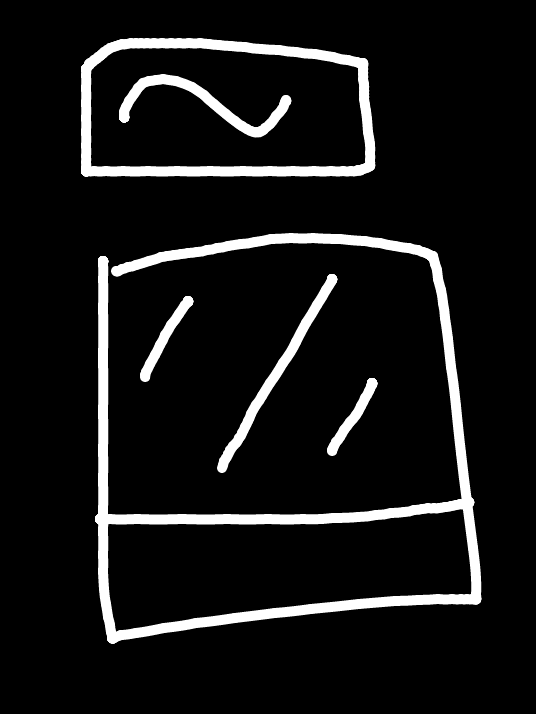
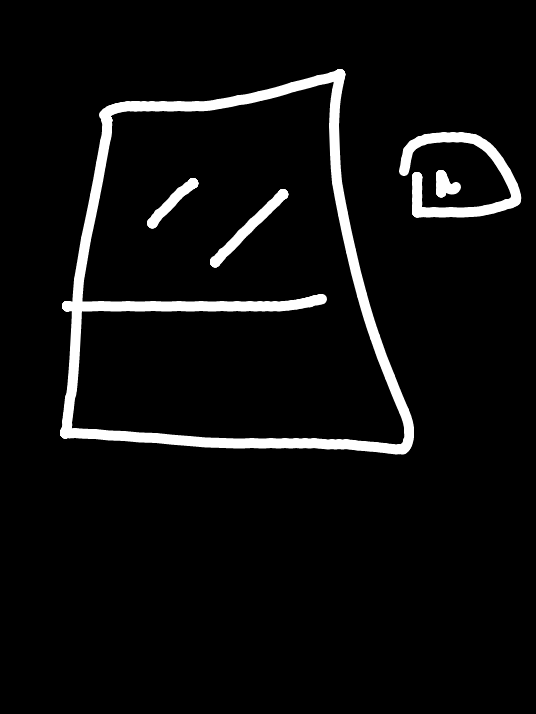
Model

Changed region(s): [[0.0896, 0.0308, 0.8955, 0.9244], [0.7463, 0.1849, 0.9851, 0.3081]]

diff --git a/output.html b/output.html
@@ -12,9 +12,9 @@
   <link href="main.css" rel="stylesheet"/>
  </head>
  <body>
-  <div class="main-heading" style="margin-top:6.022408963585434vh;">
-   Sub Heading
+  <div class="sub-heading" style="margin-top:20vh;">
+   Sub Sub Heading . Used for explaining the topic in detail
   </div>
-  <img class="img-box" id=" cdcdcdcd" src="assets/img/image.jpg" style="margin-top:9.383753501400555vh;height:56.022408963585434vh"/>
+  <img class="img-box" id=" hhhh" src="assets/img/image.jpg" style="margin-top:-19vh;height:50vh"/>
  </body>
 </html>

diff --git a/layout_gen.py b/layout_gen.py
@@ -3,10 +3,28 @@ import util
 from xml.etree import ElementTree as ET
 from xml.dom import minidom
 from bs4 import BeautifulSoup as bs
+import math
+
+
 elements = []
 h = 0
 w = 0
 main_html = '<!DOCTYPE html><html lang="en"><head><title>Output</title><meta charset="utf-8"><meta name="viewport" content="width=device-width, initial-scale=1"><link rel="shortcut icon" href="assets/img/favicons/favicon.ico"><script src="assets/js/reload.js"></script><link rel="stylesheet" href="main.css" /></head><body>'
+
+
+def getClean(margin_top):
+    margin_top = math.floor(margin_top)
+    ones = margin_top%10
+
+    if(margin_top >= 10):
+
+        if(ones > 5):
+            margin_top = (margin_top - margin_top%10) +10
+        else:
+            margin_top = (margin_top- margin_top%10)
+    
+    return margin_top
+
 def init(element_type,coords,W,H,id_):
   
     x_min = coords[0]
@@ -19,6 +37,11 @@ def init(element_type,coords,W,H,id_):
 
     h_percent = float((y_max - y_min)/H)*100
     w_percent = float((x_max - x_min)/W)*100
+
+    h_percent = getClean(h_percent)
+    w_percent = getClean(w_percent)
+
+
 
     elements.append([element_type,x_percent,y_percent,w_percent,h_percent,id_])
 
@@ -183,7 +206,11 @@ def build():
         else:
             margin_top = e[2]
 
-        print(margin_top)
+        print('Old', margin_top)
+
+        margin_top  = getClean(margin_top)
+
+        print('New margin',margin_top)
         element_type = e[0]
         x = e[1]
         y = e[2]
